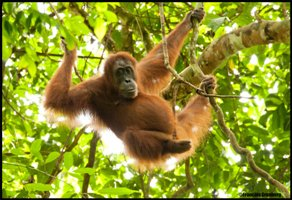
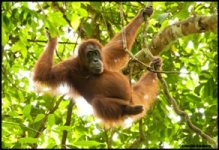
Menambah gambar orang utan dan mengedit tulisan pada slide

diff --git a/public/index.html b/public/index.html
@@ -206,11 +206,9 @@
         <div class="rows">
           <h2>Bukit Lawang Cont...</h2>
         </div>
+        <div class="rows"><img src="img/Orang_Utan.jpg" class="img-responsive"></div>
         <div class="rows">
           <p style="text-align:left">Bukit Lawang adalah salah satu tempat terbaik di dunia untuk menemukan primata langka dan hampir punah. Melihat makhluk anggun berayun-ayun melalui ranting-ranting pohon. Hutan ini adalah salah satu komunitas terbesar orangutan,  lebih dari 5000 orangutan tinggal di sini.</p>
-        </div>
-        <div class="rows">
-          <p style="text-align:left">Pusat rehabilitasi orangutan adalah tempat bagi orangutan yatim piatu yang dilatih hidup di alam bebas. Pusat ini telah beroperasi sejak tahun 1973 dan hingga kini telah menarik pengunjung dari seluruh dunia untuk melihat sekilas makhluk menakjubkan.</p>
         </div>
       </section>
       <section>

diff --git a/public/BukitLawang.html b/public/BukitLawang.html
@@ -12,11 +12,9 @@
   <div class="rows">
     <h2>Bukit Lawang Cont...</h2>
   </div>
+  <div class="rows"><img src="img/Orang_Utan.jpg" class="img-responsive"/></div>
   <div class="rows">
     <p style="text-align:left">Bukit Lawang adalah salah satu tempat terbaik di dunia untuk menemukan primata langka dan hampir punah. Melihat makhluk anggun berayun-ayun melalui ranting-ranting pohon. Hutan ini adalah salah satu komunitas terbesar orangutan,  lebih dari 5000 orangutan tinggal di sini.</p>
-  </div>
-  <div class="rows">
-    <p style="text-align:left">Pusat rehabilitasi orangutan adalah tempat bagi orangutan yatim piatu yang dilatih hidup di alam bebas. Pusat ini telah beroperasi sejak tahun 1973 dan hingga kini telah menarik pengunjung dari seluruh dunia untuk melihat sekilas makhluk menakjubkan.</p>
   </div>
 </section>
 <section>
